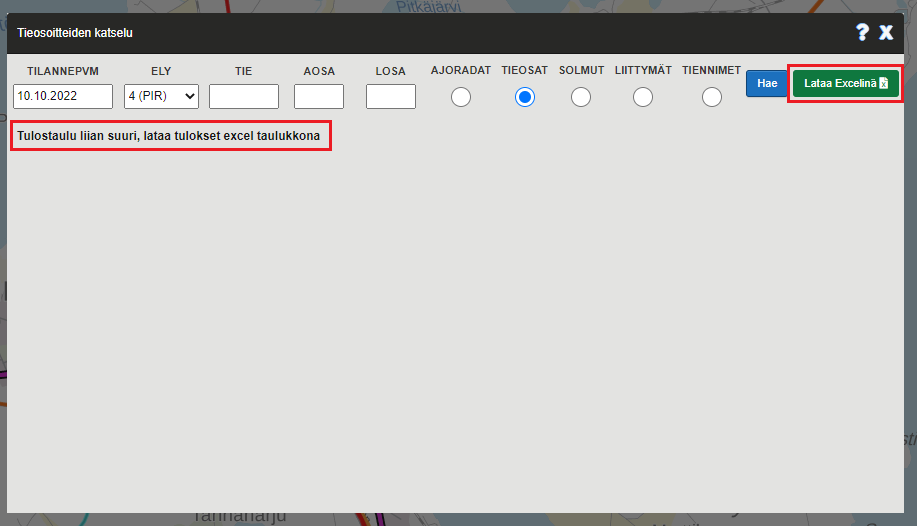
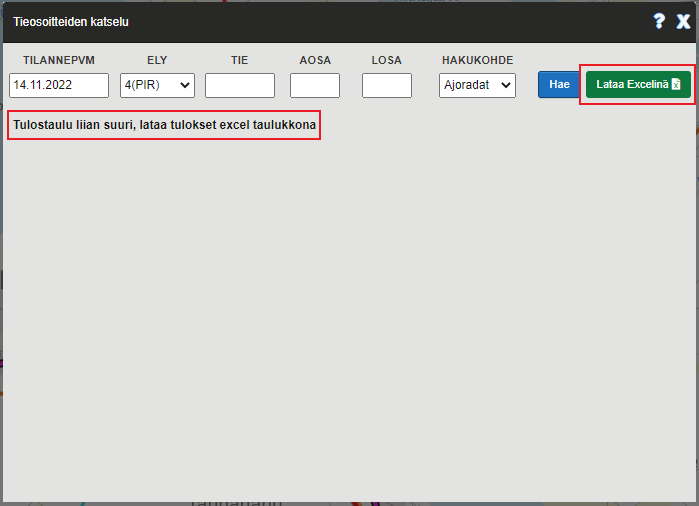
VIITE-2857 update road address browser manual pictures and parameter texts

Changed region(s): [[0.0, 0.0, 1.0, 1.0]]

diff --git a/viite-UI/manual/index.md b/viite-UI/manual/index.md
@@ -915,17 +915,16 @@ Ajoratoja, tieosia, solmuja sekä liitymiä haettaessa pakollisia hakuehtoja ova
 Tiennimiä on mahdollista hakea koko tieverkolta. (Haku pelkällä tilannepäivämäärällä)
 
 (1) Tilanne pvm: Karsitaan tilanne pvm -kenttää uudemmat tiedot pois hakutuloksista   
-(2) Ely: Haetaan vain annetun ELYn kohteita   
+(2) Ely: Haetaan vain valitun ELYn kohteita   
 (3) Tie: Rajataan haku annetun tienumeron mukaisiin kohteisiin   
 (4) Aosa: Pienin tieosanumero jolta haettavia kohteita haetaan   
-(5) Losa: Suurin tieosanumero jolta haettavia kohteita haetaan
-
-####  Haettava kohde
-(6) Ajoradat: Hakee annettujen hakuehtojen mukaiset ajoradat  
-(7) Tieosat: Hakee annettujen hakuehtojen mukaiset tieosat   
-(8) Solmut: Hakee annettujen hakuehtojen mukaiset solmut   
-(9) Liittymät: Hakee annettujen hakuehtojen mukaiset liittymät   
-(10) Tiennimet: Hakee annettujen hakuehtojen mukaiset tiennimet
+(5) Losa: Suurin tieosanumero jolta haettavia kohteita haetaan   
+(6) Haku kohde:
+ - Ajoradat: Hakee annettujen hakuehtojen mukaiset ajoradat  
+ - Tieosat: Hakee annettujen hakuehtojen mukaiset tieosat   
+ - Solmut: Hakee annettujen hakuehtojen mukaiset solmut   
+ - Liittymät: Hakee annettujen hakuehtojen mukaiset liittymät   
+ - Tiennimet: Hakee annettujen hakuehtojen mukaiset tiennimet
 
 
 Huom! Haku saattaa kestää useita sekunteja haettaessa pelkästään tilannepäivämäärällä ja elyllä (Viite hakee valitut kohteet koko elyn alueelta)
